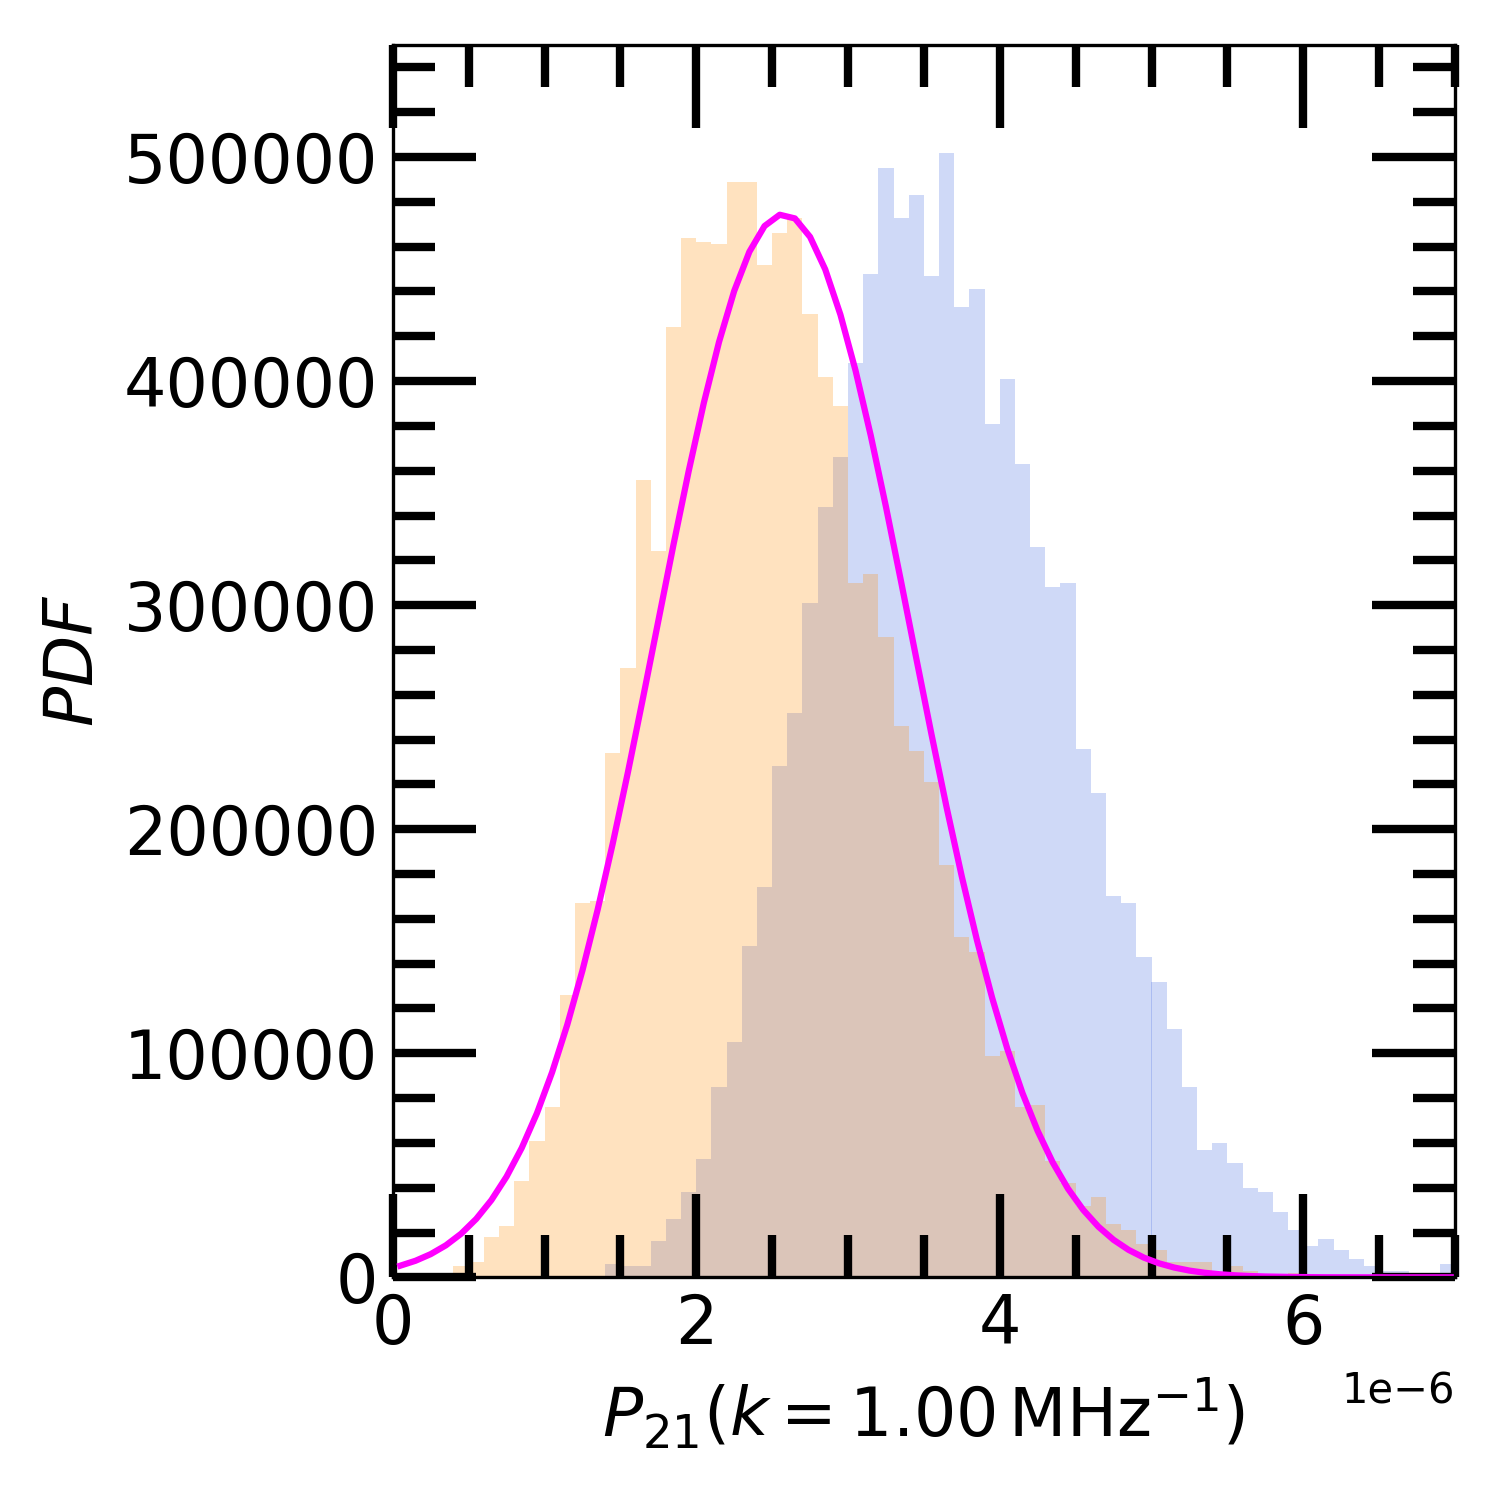
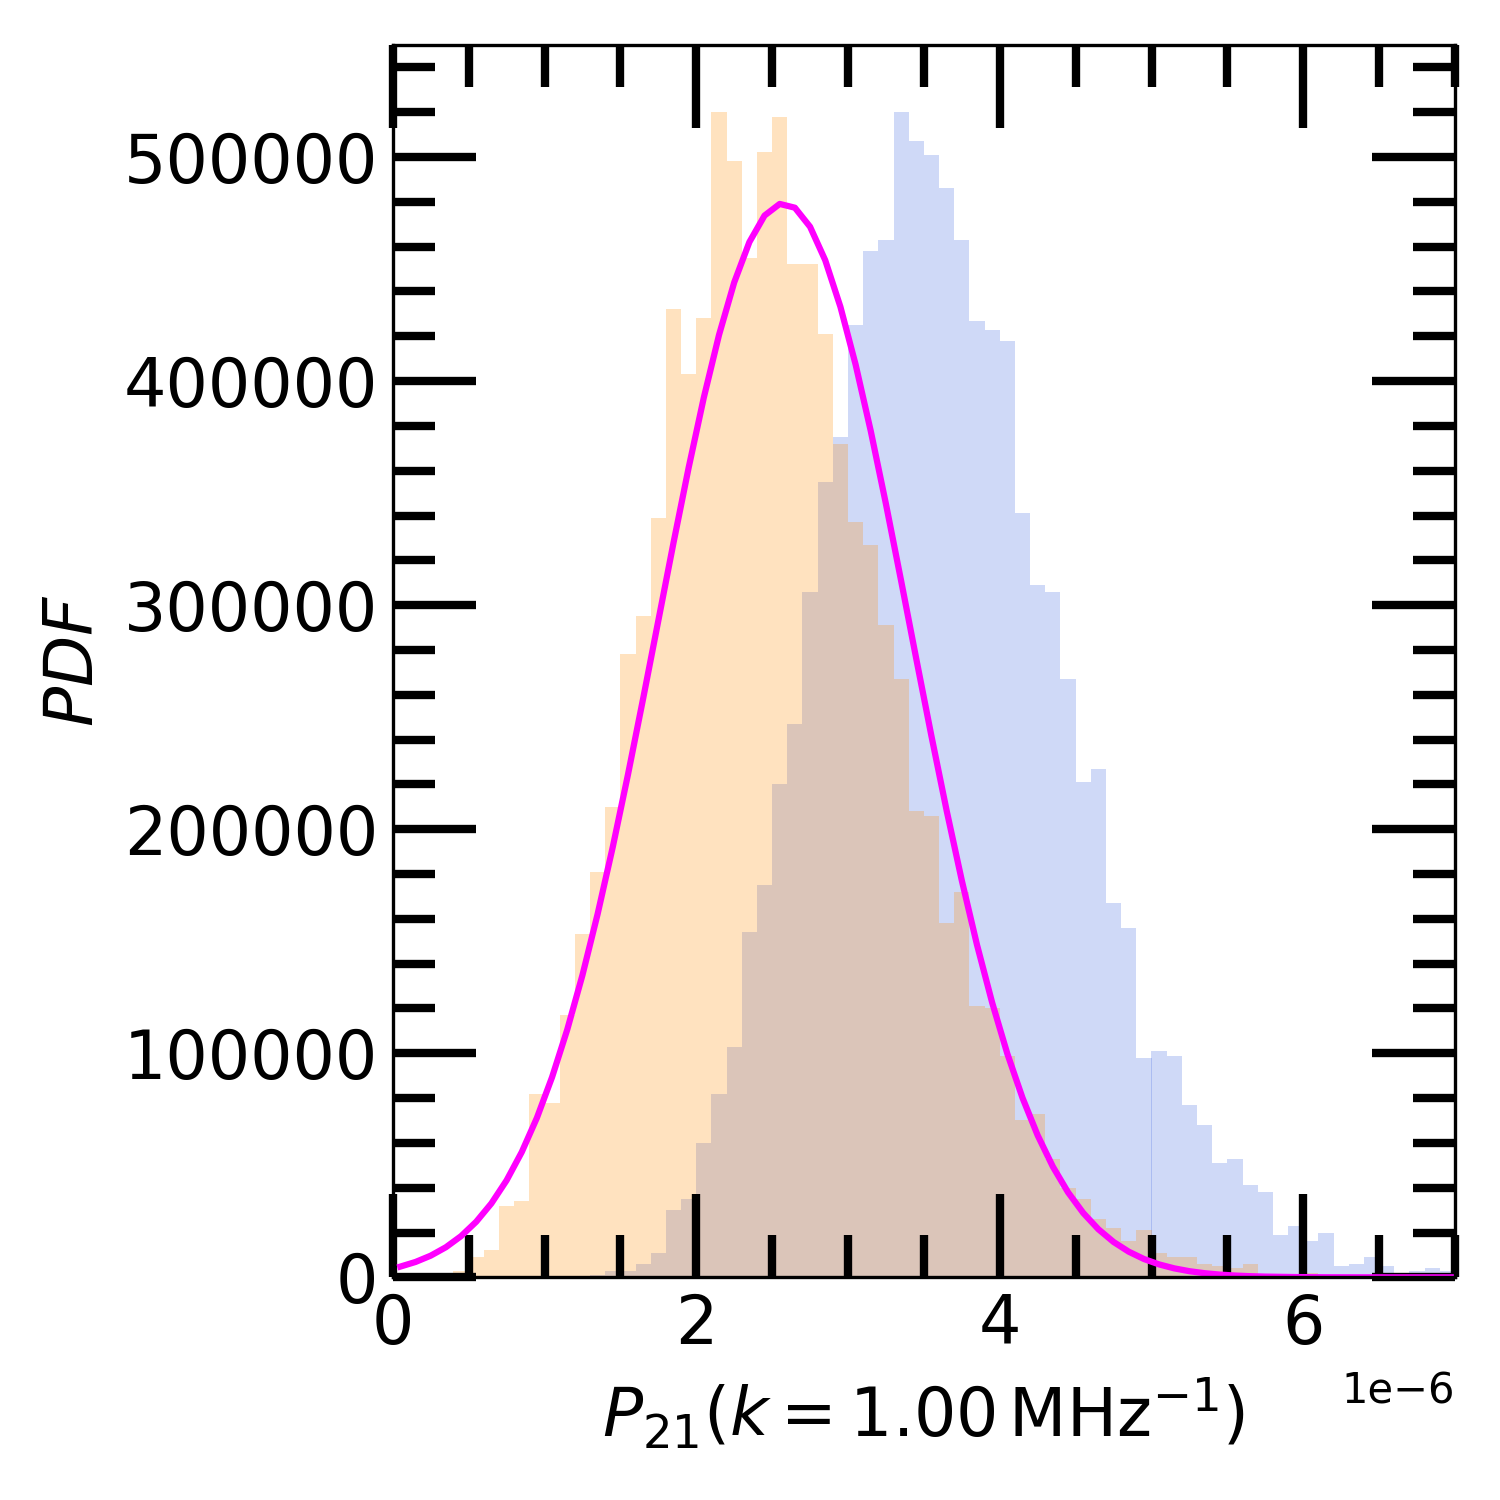
Update likelihood check random seed

diff --git a/instrumental_features.py b/instrumental_features.py
@@ -1,9 +1,5 @@
-<<<<<<< HEAD
 '''
 Functions to incorporate instrumental features
-=======
-'''Functions to incorporate instrumental features
->>>>>>> 8059d39cec5b600d8c2ba24fa6c96901f4c01ddd
 
 Version 18.10.2023
 
@@ -11,20 +7,8 @@ Spectrum smoothed by running boxcar and fixed boxcar
 Gaussian white noise including Aeff/Tsys dependence on freq and intrinsic power-law radio spectrum
 '''
 
-<<<<<<< HEAD
 import numpy as np
 from astropy.convolution import convolve, Box1DKernel
-=======
-import sys
-import numpy as np
-import matplotlib.pyplot as plt
-import matplotlib as mpl
-import scipy.signal as scisi
-from astropy.convolution import convolve, Box1DKernel
-from matplotlib.ticker import AutoMinorLocator
-from matplotlib import gridspec
-import matplotlib.patches as patches
->>>>>>> 8059d39cec5b600d8c2ba24fa6c96901f4c01ddd
 import openpyxl
 from numpy import random
 
@@ -33,7 +17,6 @@ import constants
 
 
 
-<<<<<<< HEAD
 def transF(optdep): #Change optical depth to transmitted flux
   return np.exp(-optdep)
 
@@ -44,25 +27,10 @@ def freq_obs(redshift,velH):  #Calculates observed frequency
   return constants.c/lambda_obs(redshift,velH)
 
 def z_obs(redshift,velH): #Calculates observed redshift
-=======
-fsize = 16
-
-def transF(optdep):
-  return np.exp(-optdep)
-
-def lambda_obs(redshift,velH):
-  return constants.lambda_0*(1+redshift)*(1-velH/constants.c)	#Calculates observed shifted wavelength
-
-def freq_obs(redshift,velH):
-  return constants.c/lambda_obs(redshift,velH)
-
-def z_obs(redshift,velH):
->>>>>>> 8059d39cec5b600d8c2ba24fa6c96901f4c01ddd
   return lambda_obs(redshift,velH)/constants.lambda_0-1.
 
 
 
-<<<<<<< HEAD
 def smooth_fixedbox(frequency,signal,spec_res,shownpix=False):  #Smooth signal by fixed boxcar to model the spectral resolution of the telescope
   
   #frequency - array of frequency values
@@ -71,10 +39,6 @@ def smooth_fixedbox(frequency,signal,spec_res,shownpix=False):  #Smooth signal b
   #shownpix - if True, print the number of pixels over which the signal is convolved
 
   #Calculate the number of pixels over which the signal is convolved to achieve the spectral resolution of the telescope
-=======
-def smooth_fixedbox(frequency,signal,spec_res,shownpix=False):
-   
->>>>>>> 8059d39cec5b600d8c2ba24fa6c96901f4c01ddd
   Nbins = len(frequency)
   v_pix = (frequency[-1]-frequency[0])/Nbins/1e3
   Npix = int(np.round(spec_res/v_pix,0))
@@ -85,17 +49,13 @@ def smooth_fixedbox(frequency,signal,spec_res,shownpix=False):
   Nbins = Nbins_smooth*Npix
   ind_smooth = np.arange(0,Nbins-1,Npix)+int(np.floor(Npix/2))
   freq_smooth = frequency[ind_smooth]
-<<<<<<< HEAD
   #Smooth the signal by taking mean within each bin of pixels. This reduces the number of bins by a factor of Npix
-=======
->>>>>>> 8059d39cec5b600d8c2ba24fa6c96901f4c01ddd
   signal_smooth = np.empty(Nbins_smooth)
   for i in range(Nbins_smooth):
     signal_smooth[i] = np.mean(signal[i*Npix:(i+1)*Npix])
 
   return freq_smooth,signal_smooth
 
-<<<<<<< HEAD
 def smooth_runningbox(frequency,signal,spec_res): #Smooth signal by running boxcar to model the spectral resolution of the telescope
 
   #frequency - array of frequency values
@@ -103,10 +63,6 @@ def smooth_runningbox(frequency,signal,spec_res): #Smooth signal by running boxc
   #spec_res - spectral resolution of the telescope to be modelled
    
   #Calculate the number of pixels over which the signal is convolved to achieve the spectral resolution of the telescope
-=======
-def smooth_runningbox(frequency,signal,spec_res):
-   
->>>>>>> 8059d39cec5b600d8c2ba24fa6c96901f4c01ddd
   Nbins = len(frequency)
   v_pix = (frequency[-1]-frequency[0])/Nbins/1e3
   Npix = int(np.round(spec_res/v_pix,0))
@@ -114,11 +70,8 @@ def smooth_runningbox(frequency,signal,spec_res):
 
   box_kernel = Box1DKernel(Npix)
   signal_smooth = convolve(signal, box_kernel,boundary='fill', fill_value=1.)
-<<<<<<< HEAD
 
   #Decrease the number of pixels by a factor of Npix by hand
-=======
->>>>>>> 8059d39cec5b600d8c2ba24fa6c96901f4c01ddd
   ind_smooth = np.arange(0,Nbins+1,Npix)
   freq_smooth = frequency[ind_smooth]
   signal_smooth = signal_smooth[ind_smooth]
@@ -127,11 +80,7 @@ def smooth_runningbox(frequency,signal,spec_res):
 
 
 
-<<<<<<< HEAD
 def excel_column(data_name,n_col):  #Read data from excel file. Needed for Aeff/Tsys data
-=======
-def excel_column(data_name,n_col):
->>>>>>> 8059d39cec5b600d8c2ba24fa6c96901f4c01ddd
 
     wb = openpyxl.load_workbook(data_name)
     sheet = wb.active
@@ -144,7 +93,6 @@ def excel_column(data_name,n_col):
 
     return col
 
-<<<<<<< HEAD
 def add_noise(frequency,telescope,dv,S_source,spec_index,t_integration,N_dish,showsigN=False):  #Model telescope noise to be added to the signal
   
   #frequency - array of frequency values
@@ -157,11 +105,6 @@ def add_noise(frequency,telescope,dv,S_source,spec_index,t_integration,N_dish,sh
   #showsigN - if True, print the mean noise and standard deviation of the noise
 
   #read uGMRT or SKA1-low Aeff/Tsys from Fig. 8 in Braun et al. 2019
-=======
-def add_noise(frequency,telescope,dv,S_source,spec_index,t_integration,N_dish,showsigN=False):
-  
-  #read uGMRT Aeff/Tsys from Fig. 8 in Braun et al. 2019
->>>>>>> 8059d39cec5b600d8c2ba24fa6c96901f4c01ddd
   datafile = 'sensitivity/sens_%s.xlsx' % telescope
   freq_0 = excel_column(datafile,1)*1000
   ATsys_0 = excel_column(datafile,2)
@@ -172,14 +115,9 @@ def add_noise(frequency,telescope,dv,S_source,spec_index,t_integration,N_dish,sh
   elif telescope=='SKA1-low':
     ATsys_0 = ATsys_0/np.sqrt(512*(512-1))
 
-<<<<<<< HEAD
   #Interpolate in the frequency range of Aeff/Tsys data
   frequency = frequency/1e6
   index_freq = np.digitize(frequency,freq_0,right=True)
-=======
-  frequency = frequency/1e6
-  index_freq = np.digitize(frequency,freq_0,right=True)	#Interpolate in the density (similar to redshift)
->>>>>>> 8059d39cec5b600d8c2ba24fa6c96901f4c01ddd
 
   freq_low  = freq_0[index_freq-1]
   freq_high = freq_0[index_freq]
@@ -212,15 +150,8 @@ def add_noise(frequency,telescope,dv,S_source,spec_index,t_integration,N_dish,sh
 
 
 
-<<<<<<< HEAD
 def uni_freq(freq,signal): #Calculate frequency range and, because we want to compute the power spectrum in frequency space, create a uniform frequency array.
   
-=======
-def uni_freq(freq,signal):
-
-  # Calculate frequency range and, because we want to compute the power spectrum 
-  # in frequency space, create a uniform frequency array.
->>>>>>> 8059d39cec5b600d8c2ba24fa6c96901f4c01ddd
   minimum_frequency = np.min(freq)    
   maximum_frequency = np.max(freq)
   Delta_nu = maximum_frequency-minimum_frequency
@@ -238,16 +169,9 @@ def uni_freq(freq,signal):
 
 
 
-<<<<<<< HEAD
 def multi_obs(signal,N_obs,N_samples): #Create N_samples samples of median PS signal from N_obs randomly drawn LOS
  
   N_los,N_kbins = signal.shape  #get the number of LOS and number of k bins
-=======
-#Create N_samples samples of median PS signal from N_obs randomly drawn LOS
-def multi_obs(signal,N_obs,N_samples):
-   
-  N_los,N_kbins = signal.shape
->>>>>>> 8059d39cec5b600d8c2ba24fa6c96901f4c01ddd
   signal_multiobs = np.empty((N_samples,N_kbins))
 
   for i in range(N_samples):

diff --git a/likelihood_check.py b/likelihood_check.py
@@ -22,6 +22,8 @@ import emcee
 import corner
 import instrumental_features
 from numpy import random
+random.seed(5)
+np.random.seed(5)
 import time
 import csv
 start_clock = time.perf_counter()
@@ -268,7 +270,7 @@ fsize = 16
 fig = plt.figure(figsize=(5.,5.))
 gs = gridspec.GridSpec(1,1)
 
-ax4 = plt.subplot(gs[0,0])  
+ax = plt.subplot(gs[0,0])  
 
 PS_ens_atk_nsv = np.empty(Nsamples)
 PS_ens_atk_nsub = np.empty(Nsamples)
@@ -276,22 +278,22 @@ for i in range(Nsamples):
    PS_ens_atk_nsv[i] = PS_nsv_ens[i][k_ind]
    PS_ens_atk_nsub[i] = PS_nsub_ens[i][k_ind]
 
-ax4.hist(PS_ens_atk_nsv,bins=PS_bins,density=True,color='royalblue',alpha=0.25,label=r'Sampled $\langle P_{21}^{\rm S+N}\rangle_{10}$')
-ax4.hist(PS_ens_atk_nsub,bins=PS_bins,density=True,color='darkorange',alpha=0.25,label=r'Sampled $\langle P_{21}^{\rm N_{sub}}\rangle_{10}$')
-ax4.plot(PS_bins_cent,likelihood[0],'-',color='fuchsia',label=r'$\mathcal{L}_{\rm B}(P_{21}|\mathbf{\theta})$')
-ax4.legend(frameon=False,loc=[0.1,0.65],fontsize=fsize)
-ax4.set_xlim(0,1.5e-5)
-#ax4.set_xlim(0,.7e-5)
-ax4.set_ylim(0.,5.5e5)
-ax4.set_xlabel(r'$P_{21}(k=%.2f\,\rm MHz^{-1})$' % k_bins_cent[k_ind], fontsize=fsize)
-ax4.set_ylabel(r'$PDF$', fontsize=fsize)
-ax4.xaxis.set_minor_locator(AutoMinorLocator())
-ax4.yaxis.set_minor_locator(AutoMinorLocator())
-ax4.tick_params(axis='x',which='major',direction='in',bottom=True,top=True,left=True,right=True
+ax.hist(PS_ens_atk_nsv,bins=PS_bins,density=True,color='royalblue',alpha=0.25,label=r'Sampled $\langle P_{21}^{\rm S+N}\rangle_{10}$')
+ax.hist(PS_ens_atk_nsub,bins=PS_bins,density=True,color='darkorange',alpha=0.25,label=r'Sampled $\langle P_{21}^{\rm N_{sub}}\rangle_{10}$')
+ax.plot(PS_bins_cent,likelihood[0],'-',color='fuchsia',label=r'$\mathcal{L}_{\rm B}(P_{21}|\mathbf{\theta})$')
+ax.legend(frameon=False,loc=[0.1,0.65],fontsize=fsize)
+ax.set_xlim(0,1.5e-5)
+#ax.set_xlim(0,.7e-5)
+ax.set_ylim(0.,5.5e5)
+ax.set_xlabel(r'$P_{21}(k=%.2f\,\rm MHz^{-1})$' % k_bins_cent[k_ind], fontsize=fsize)
+ax.set_ylabel(r'$PDF$', fontsize=fsize)
+ax.xaxis.set_minor_locator(AutoMinorLocator())
+ax.yaxis.set_minor_locator(AutoMinorLocator())
+ax.tick_params(axis='x',which='major',direction='in',bottom=True,top=True,left=True,right=True
 		,length=20,width=2,labelsize=fsize)
-ax4.tick_params(axis='y',which='major',direction='in',bottom=True,top=True,left=True,right=True
+ax.tick_params(axis='y',which='major',direction='in',bottom=True,top=True,left=True,right=True
 		,length=20,width=2,labelsize=fsize)
-ax4.tick_params(axis='both',which='minor',direction='in',bottom=True,top=True,left=True,right=True
+ax.tick_params(axis='both',which='minor',direction='in',bottom=True,top=True,left=True,right=True
 		,length=10,width=2)
 
 plt.tight_layout()
